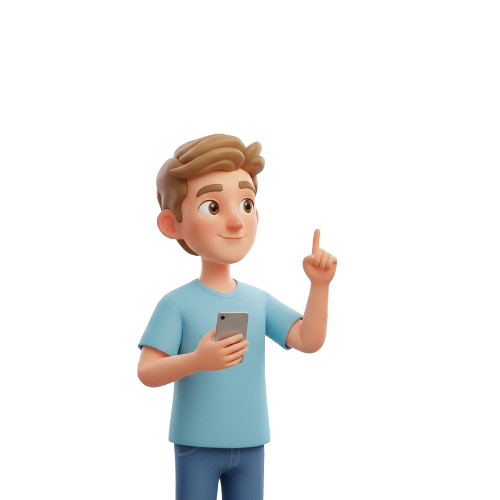
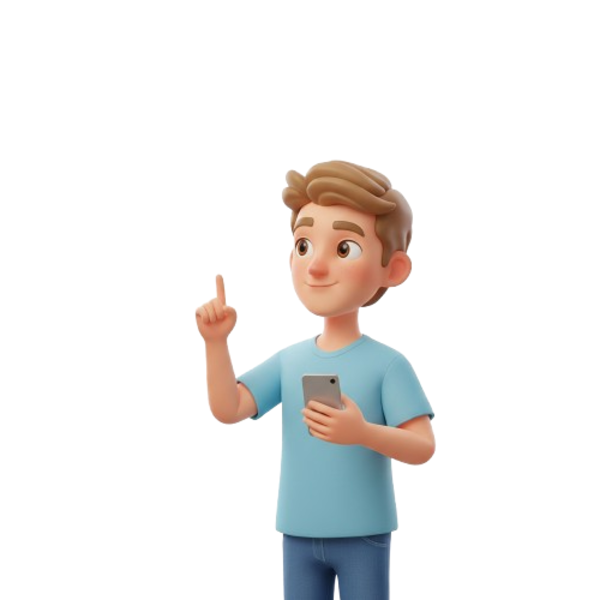
Burbuja con foto en los mensajes y color de la burbuja

Changed region(s): [[0.27, 0.27, 0.75, 1.0]]

diff --git a/css/style.css b/css/style.css
@@ -1,7 +1,7 @@
-
 body{
     background-color: rgb(214, 205, 205);
 }
+
 .secretaria-btn{
     background-color: white;
 }
@@ -47,7 +47,7 @@ body{
 
 /* Color difuminado del botón enviar y de la cabecera "Secretaría Virtual" */
 #chatWindow .card-footer .btn-primary {
-    background: linear-gradient(to bottom, #215387 0%, #2B6CB0 50%, #215387 100%) !important;
+    background: linear-gradient(to bottom, #215287 0%, #2B6CB0 50%, #215387 100%) !important;
     border: none !important;
     box-shadow: 0 2px 5px rgba(0,0,0,0.2) !important;
 }
@@ -66,8 +66,77 @@ body{
     overflow: hidden; /* Esto corta cualquier esquina blanca que sobresalga */
 }
 
-/* MEDIA QUERIES - RESPONSIVE */
+/* Estilo del círculo de la foto */
+.avatar-circulo {
+    width: 40px;
+    height: 40px;
+    border-radius: 50%;
+    overflow: hidden;
+    background-color: white;
+    border: 1px solid #ddd;
+    flex-shrink: 0; /* Evita que la foto se aplaste */
+}
 
+.avatar-circulo img {
+    width: 100%;
+    height: 100%;
+    object-fit: cover;
+}
+
+/* Imagen de la secretaria (normal) */
+.d-flex:not(.flex-row-reverse) .avatar-circulo img {
+    width: 100%;
+    height: 100%;
+    object-fit: cover;
+}
+
+/* IMAGEN DEL USUARIO (MÁS GRANDE) */
+.flex-row-reverse .avatar-circulo img {
+    width: 50px !important;    /* La hacemos un poco más grande aún para tener margen */
+    height: 50px !important;
+    max-width: none !important;
+    object-fit: cover;
+    
+    /* Con translateY subimos la imagen. 
+       Un número negativo como -5px la empuja hacia ARRIBA. 
+       Ajusta este número hasta que veas la cara perfecta. */
+    transform: translateY(-8px) !important; 
+    
+    /* Aseguramos que no se mueva lateralmente */
+    margin-left: -6px !important;
+}
+
+/* Estilo base de las burbujas */
+.burbuja-chat {
+    max-width: 75%;
+    white-space: normal;
+    text-align: left;
+    border-radius: 12px !important;
+    font-weight: normal;
+    box-shadow: 0 4px 12px rgba(0, 0, 0, 0.432) !important;
+}
+
+/* Color Secretaria (Blanco/Grisáceo) */
+.burbuja-secretaria {
+    background-color: rgb(255, 255, 255) !important;
+    color: #000000 !important;
+    border-bottom-left-radius: 2px !important; /* Pico de chat */
+}
+
+/* Color Usuario (Azul claro difuminado) */
+.burbuja-usuario {
+    background: linear-gradient(to bottom, #215287 0%, #2B6CB0 50%, #215387 100%) !important;
+    color: white !important;
+    border-bottom-right-radius: 2px !important; /* Pico de chat */
+}
+
+/* Forzar que el card-body se vea bien con flex */
+.card-body {
+    display: flex;
+    flex-direction: column;
+}
+
+/* MEDIA QUERIES - RESPONSIVE */
 /* Móviles pequeños (hasta 576px) */
 @media (max-width: 576px) {
     #chatWindow {

diff --git a/js/script.js b/js/script.js
@@ -2,17 +2,57 @@ document.addEventListener('DOMContentLoaded', function() {
     const btnSecretaria = document.getElementById('btnSecretaria');
     const chatWindow = document.getElementById('chatWindow');
     const closeChat = document.getElementById('closeChat');
+    const chatBody = document.getElementById('chatBody'); // Usamos el ID nuevo
+    const input = chatWindow.querySelector('input');
+    const sendBtn = chatWindow.querySelector('.btn-primary');
 
-    if (btnSecretaria && chatWindow && closeChat) {
-        // Abrir/Cerrar el chat al pulsar la secretaria
-        btnSecretaria.addEventListener('click', () => {
-            chatWindow.classList.toggle('d-none');
-        });
+    const FOTO_SECRETARIA = "img/SecretariaVirtual.png";
+    const FOTO_USUARIO = "img/Usuario.png"; 
 
-        // Cerrar el chat desde la X
-        closeChat.addEventListener('click', (e) => {
-            e.stopPropagation(); // Evita que el clic llegue al botón de atrás
-            chatWindow.classList.add('d-none');
-        });
+    // Función unificada para crear mensajes con foto
+    function agregarMensaje(texto, esSecretaria = false) {
+        const mensajeDiv = document.createElement('div');
+        mensajeDiv.className = `d-flex align-items-end mb-3 ${esSecretaria ? '' : 'flex-row-reverse'}`;
+
+        const avatarHtml = `
+            <div class="avatar-circulo shadow-sm mx-2">
+                <img src="${esSecretaria ? FOTO_SECRETARIA : FOTO_USUARIO}" alt="Avatar">
+            </div>
+        `;
+
+        const burbujaHtml = `
+            <span class="badge p-2 shadow-sm burbuja-chat ${esSecretaria ? 'burbuja-secretaria' : 'burbuja-usuario'}">
+                ${texto}
+            </span>
+        `;
+
+        mensajeDiv.innerHTML = avatarHtml + burbujaHtml;
+        chatBody.appendChild(mensajeDiv);
+        chatBody.scrollTop = chatBody.scrollHeight;
     }
+
+    // --- MENSAJE POR DEFECTO ---
+    // Mensaje de la secretaría al abrir la web
+    agregarMensaje("¡Hola! 👋 Soy la secretaria virtual del colegio. ¿En qué puedo ayudarte?", true);
+
+    function enviar() {
+        const texto = input.value.trim();
+        if (texto) {
+            agregarMensaje(texto, false);
+            input.value = "";
+        }
+    }
+
+    sendBtn.addEventListener('click', enviar);
+    input.addEventListener('keypress', (e) => { if (e.key === 'Enter') enviar(); });
+
+    btnSecretaria.addEventListener('click', () => { 
+        chatWindow.classList.toggle('d-none');
+        chatBody.scrollTop = chatBody.scrollHeight;
+    });
+
+    closeChat.addEventListener('click', (e) => { 
+        e.stopPropagation(); 
+        chatWindow.classList.add('d-none'); 
+    });
 });

diff --git a/index.html b/index.html
@@ -16,13 +16,11 @@
                 <span>Secretaría Virtual</span>
                 <button type="button" class="btn-close btn-close-white" id="closeChat"></button>
             </div>
-            <div class="card-body" style="height: 300px; overflow-y: auto; background-color: #f8f9fa;">
-                <div class="mb-2">
-                    <span class="badge bg-white text-dark p-2 shadow-sm" style="border-radius: 10px; white-space: normal; text-align: left;">
-                        ¡Hola! 👋 Soy la secretaria virtual del colegio. ¿En qué puedo ayudarte?
-                    </span>
-                </div>
+
+            <div class="card-body" id="chatBody" style="height: 300px; overflow-y: auto; background-color: #f8f9fa;">
+                
             </div>
+            
             <div class="card-footer bg-white border-top-0">
                 <div class="input-group">
                     <input type="text" class="form-control form-control-sm" placeholder="Escribe un mensaje...">
